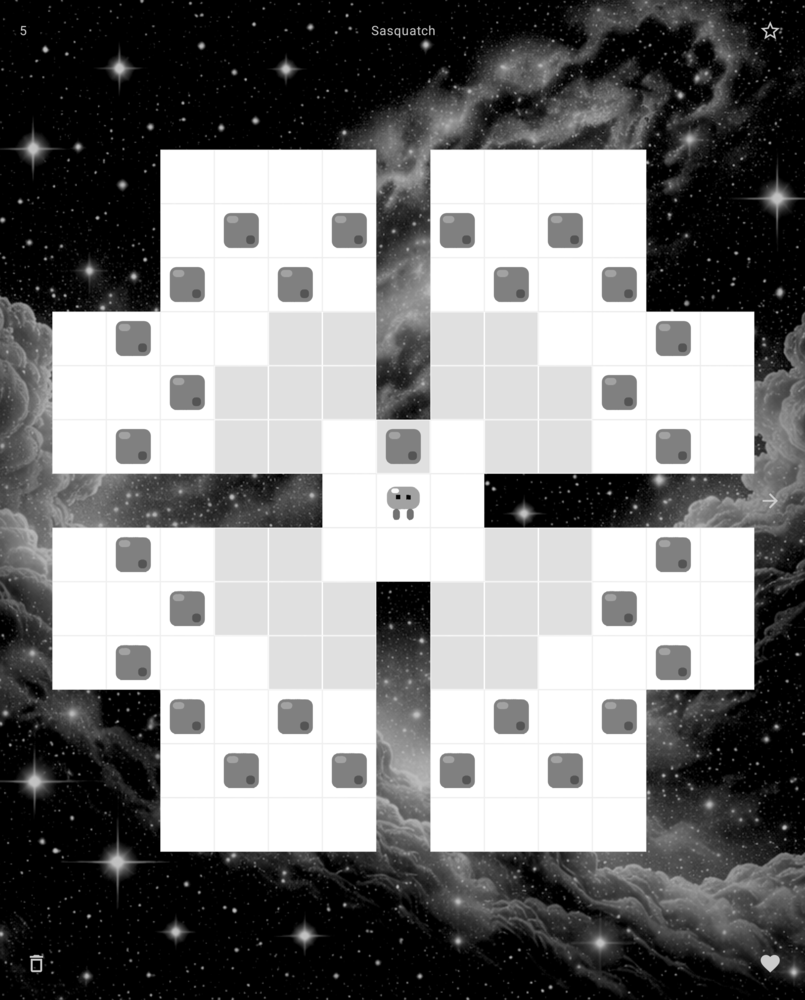
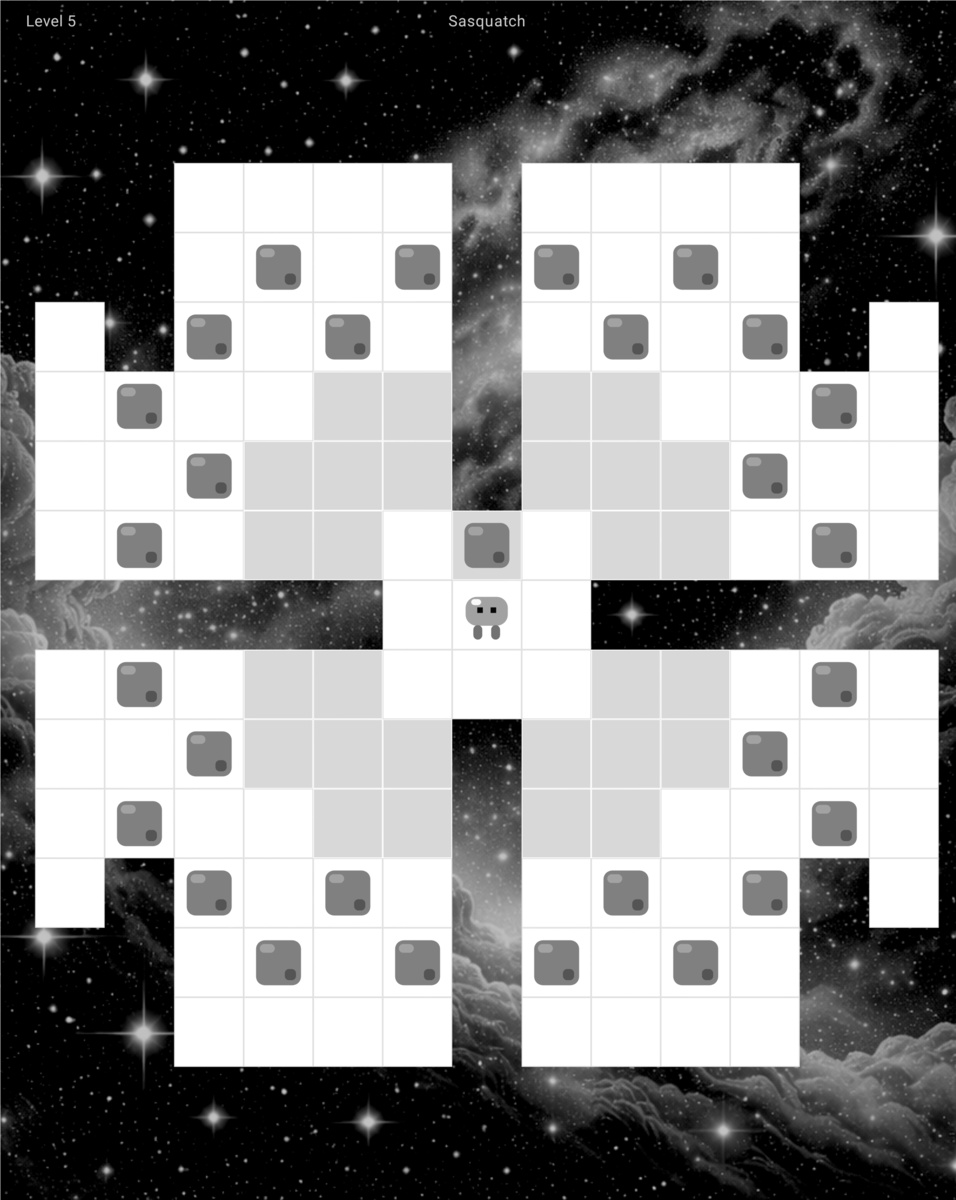
update README

diff --git a/README.md b/README.md
@@ -1,89 +1,34 @@
 # EinkArcade
 
-EinkArcade is the original Kotlin/Android implementation of **Sokobanitron**, a Sokoban game designed for e-ink displays.
-
-It includes a high-contrast grayscale interface, tap-to-move pathfinding, animated box movement, local puzzle state, and level synchronization.
+EinkArcade is the original Kotlin/Android implementation of **Sokobanitron**, a Sokoban game
+designed for e-ink displays.
 
 ![Sokobanitron gameplay](docs/gameplay.png)
 ![Sokobanitron level_select](docs/level_select.png)
 
-## Quick orientation
-
-This implementation contains the original gameplay, rendering, animation, persistence, and synchronization work for Sokobanitron. The later Rust version moved the shared game logic into separate cross-platform crates.
-
-The app stores synced level data and puzzle progress locally with Room. A companion `sokobrowser` server provides the initial level catalog through the sync API.
-
-## File overview
-
-- [`GameEngine.kt`](app/src/main/java/com/example/einkarcade/sokoban/GameEngine.kt) — game-state transitions, move validation, undo behavior, win detection, and box-removal behavior.
-- [`Pathfinder.kt`](app/src/main/java/com/example/einkarcade/sokoban/Pathfinder.kt) — player reachability and tap-to-move pathfinding.
-- [`BoxPathfinder.kt`](app/src/main/java/com/example/einkarcade/sokoban/BoxPathfinder.kt) — box movement planning for the tap-box-then-destination interaction model.
-- [`GameBoardView.kt`](app/src/main/java/com/example/einkarcade/ui/rendering/GameBoardView.kt) — custom Android `View` for board rendering, tap-to-cell input, selection updates, viewport-aware invalidation, and animation layering.
-- [`AnimationRunner.kt`](app/src/main/java/com/example/einkarcade/ui/rendering/anim/AnimationRunner.kt) — frame coordination for board animations.
-- [`BoxPathAnimation.kt`](app/src/main/java/com/example/einkarcade/ui/rendering/anim/BoxPathAnimation.kt) — box movement animation.
-- [`BoxVanishAnimation.kt`](app/src/main/java/com/example/einkarcade/ui/rendering/anim/BoxVanishAnimation.kt) — box-into-void animation.
-
 ## Project notes
 
-### Level loading and sync
-
-Level sets are selected for sync through the server, and the Android app imports those level sets into its local Room database.
-
-A fresh install requires the sync server to be running so the app can load its initial catalog. After the first successful sync, the app can use the locally stored level data and puzzle progress.
-
-For a standalone Android release, the server dependency should be replaced with direct level-set import or a bundled catalog.
-
-### Design notes
-
-EinkArcade uses a modified Sokoban board model. Traditional Sokoban levels are usually defined by walls around traversable spaces; this implementation draws floor tiles on top of a surrounding void. That creates a cleaner high-contrast shape on an e-ink display and helps maximize usable screen space.
-
-The surrounding void is also part of the interaction model: a box can be pushed off the floor and into the void. This acts as a hidden cheat mechanic and provides another animation case for a low-refresh e-ink display.
-
-The animation model was designed around the 20 Hz refresh behavior of the e-ink Android tablet I was targeting. The goal was not full game-engine smoothness, but clear, readable motion that worked within the display's constraints.
+EinkArcade uses a modified Sokoban board model. Traditional Sokoban levels are usually defined by
+walls around traversable spaces; this implementation draws floor tiles on top of a surrounding void.
+That creates a cleaner high-contrast image on an e-ink display and helps maximize usable screen
+space.
 
 ## Features
 
-### Gameplay
-
-- Tap a reachable square to move the player there automatically.
-- Select a box, then tap its destination to plan and animate a valid push path.
-- Push a box into the surrounding void as a hidden cheat mechanic.
-- Undo moves with Android's back action, restart a changed level, or skip to the next puzzle.
-
-### Level catalog
-
-- Browse level sets and individual puzzles.
-- Synchronize selected level sets from the companion `sokobrowser` server.
-- Store the synced catalog locally after the initial import.
-
-### Puzzle progress
-
-- Persist puzzle metadata, completion state, and best solutions locally with Room.
-- Send local puzzle progress back to the sync endpoint.
+- Import level sets from SOK, SLC, and TXT files.
+- Touch interface
+- High-contrast UI and animations for e-ink displays
 
 ## Requirements
 
 - Android Studio with Android SDK 36 installed
 - JDK 11 or newer
 - An Android 13+ device or emulator (API 33 is the minimum)
-- The companion `sokobrowser` sync server for loading the initial level catalog
 
 ## Getting started
 
 1. Clone the repository and open it in Android Studio.
-2. Run the companion `sokobrowser` server and select the level sets that should be available to the
-   Android app.
-3. Set the sync server URL in `app/src/main/java/com/example/einkarcade/data/LevelsRepository.kt`.
-   The checked-in value is a private-network development address:
-
-   ```kotlin
-   private const val DEFAULT_SYNC_ENDPOINT = "http://192.168.0.75:8000/api/sync"
-   ```
-
-4. Make sure the sync server is reachable from the Android device. For a server running on the
-   development machine, an Android Emulator normally reaches the host through `10.0.2.2` rather than
-   `localhost`.
-5. Build and install the debug app:
+2. Build and install the debug app:
 
    ```shell
    ./gradlew installDebug
@@ -91,40 +36,21 @@ The animation model was designed around the 20 Hz refresh behavior of the e-ink 
 
    You can also select the `app` run configuration in Android Studio and click **Run**.
 
-On first launch, the app populates its Room database from the sync endpoint. Startup fails if the
-database is empty and the server is unavailable or returns no level sets. After the initial sync,
-the locally stored catalog is available without bootstrapping again.
+On first launch, the app opens the level-set picker automatically. Choose **Import**, then select a
+Sokoban level-set file with a `.sok`, `.slc`, or `.txt` extension. The imported set is stored
+locally.
+
+To import another set later, tap the level-set name at the top center of the game screen and choose
+**Import**.
 
 ## Playing
 
-- Tap an open board square to walk there.
+- Tap an open board square to move player there.
 - Tap a box to select it, then tap a destination to push it along a valid route.
-- Use the back gesture or button to undo the last move.
+- Double-tap the player to restart the level.
+- Double-tap the last box moved to undo that move.
 - Tap the level name at the top left to choose a puzzle.
-- Tap the level-set name at the top center to choose or synchronize a set.
-- Use the side controls to restart or skip a puzzle.
-
-## Sync API
-
-The app sends a `POST` request to `/api/sync` with local puzzle progress:
-
-```json
-{
-  "puzzles": [
-    {
-      "puzzle_id": 1,
-      "last_completed_at": null,
-      "user_solution": null
-    }
-  ]
-}
-```
-
-The server response must contain `level_sets`, `levels`, and `puzzles` arrays. The client replaces
-its local catalog with the returned data while retaining the progress fields supplied by the server.
-
-Cleartext HTTP is enabled for development. Use HTTPS and revise the Android network policy before
-distributing the app.
+- Tap the level-set name at the top center to choose or import a set.
 
 ## Development
 
@@ -147,18 +73,6 @@ Create debug and release builds:
 ./gradlew assembleRelease
 ```
 
-### Testing status
-
-The existing tests cover some core game behavior. A production version would need more systematic coverage around Android UI flows, persistence, sync failure cases, and animation edge cases.
-
-The main implementation areas are:
-
-- `sokoban/` — board model, movement rules, and player/box pathfinding
-- `ui/` — Compose overlays plus the custom Android game-board view and animations
-- `data/` — Room persistence and HTTP synchronization
-- `catalog/` and `selection/` — level browsing and default-level selection
-
 ## Technology
 
-Kotlin, Jetpack Compose, a custom Android `View` for the game board, Room, KSP, and JUnit. The build
-uses Gradle 8.14.2 and Android Gradle Plugin 8.13.2.
+Kotlin, Jetpack Compose, a custom Android `View` for the game board, Room, KSP, and JUnit.
